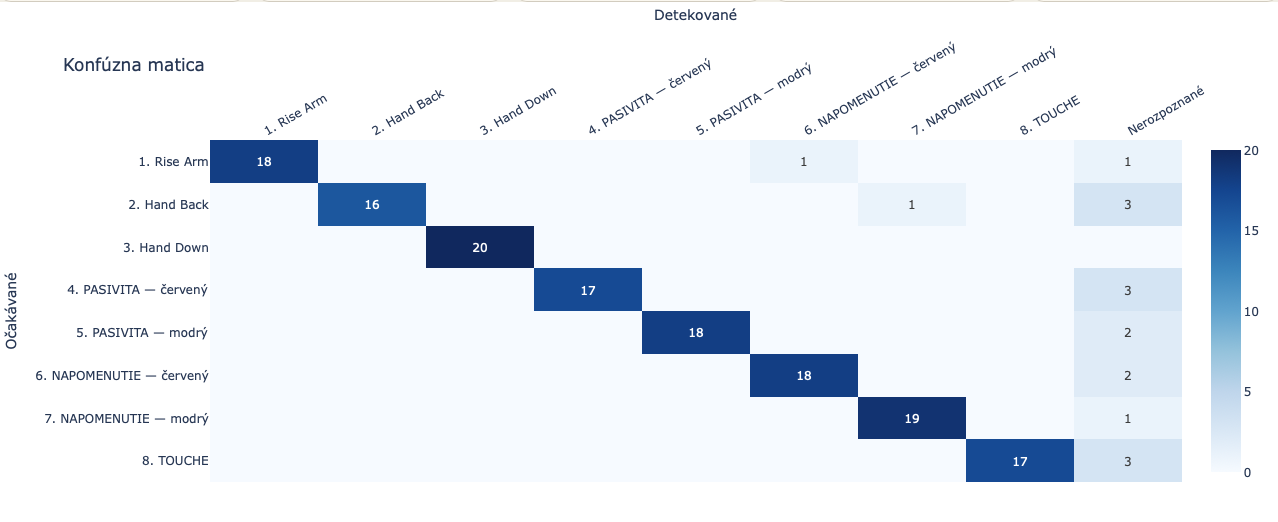
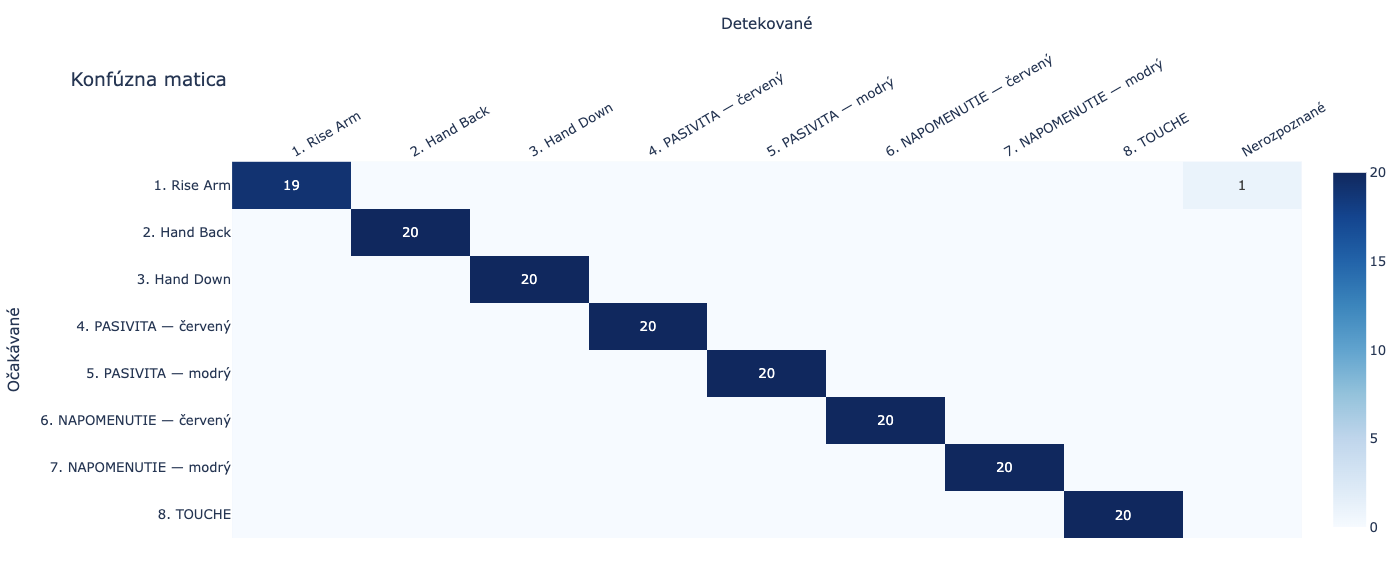
feat: add attachment E, update gesture testing results, and include false positive detection phase analysis

diff --git a/includes/chapter8.tex b/includes/chapter8.tex
@@ -29,7 +29,7 @@ bol dôvod chybnej detekcie. Testy vykonával jeden
 používateľ (autor práce) v~stoji, v~kontrolovanom
 prostredí.
 
-\subsection{Testovanie jednotlivých gest}
+\subsection{Fáza 1 -- Testovanie jednotlivých gest}
 \label{subsec:test-jednotlive}
 
 V~prvej fáze testovania sme každé gesto vykonali
@@ -54,50 +54,54 @@ sú zhrnuté v~tabuľke~\ref{tab:test-jednotlive}.
   \renewcommand{\arraystretch}{1.3}
   \begin{tabularx}{\textwidth}{
       >{\raggedright\arraybackslash}X
-      >{\centering\arraybackslash}p{0.15\textwidth}
-      >{\centering\arraybackslash}p{0.18\textwidth}
+      >{\centering\arraybackslash}p{0.12\textwidth}
+      >{\centering\arraybackslash}p{0.14\textwidth}
+      >{\centering\arraybackslash}p{0.13\textwidth}
       >{\centering\arraybackslash}p{0.18\textwidth}
     }
     \toprule
-    \textbf{Gesto}         & \textbf{Pokusy} & \textbf{Rozpoznané} & \textbf{Úspešnosť} \\
+    \textbf{Gesto}        & \textbf{Pokusy} & \textbf{Rozpoznané} & \textbf{Úspešnosť} & \textbf{Medián času det.} \\
     \midrule
-    Rise Arm               & 20              & 18                  & 90,0\%             \\
+    Rise Arm              & 20              & 19                  & 95,0\%             & 0,53\,s                   \\
     \midrule
-    Hand Back              & 20              & 16                  & 80,0\%             \\
+    Hand Back             & 20              & 20                  & 100\%              & 0,40\,s                   \\
     \midrule
-    Hand Down              & 20              & 20                  & 100\%              \\
-    % \midrule
-    % Flick                  & 18              & XX                  & XX,X\,\%           \\
+    Hand Down             & 20              & 20                  & 100\%              & 0,61\,s                   \\
     \midrule
-    PASIVITA -- červený    & 20              & 17                  & 85,0\%             \\
+    PASIVITA — červený    & 20              & 20                  & 100\%              & 0,88\,s                   \\
     \midrule
-    PASIVITA -- modrý      & 20              & 18                  & 90,0\%             \\
+    PASIVITA — modrý      & 20              & 20                  & 100\%              & 0,71\,s                   \\
     \midrule
-    NAPOMENUTIE -- červený & 20              & 18                  & 90,0\%             \\
+    NAPOMENUTIE — červený & 20              & 20                  & 100\%              & 0,55\,s                   \\
     \midrule
-    NAPOMENUTIE -- modrý   & 20              & 19                  & 95,0\%             \\
+    NAPOMENUTIE — modrý   & 20              & 20                  & 100\%              & 0,57\,s                   \\
     \midrule
-    TOUCHE                 & 20              & 17                  & 85,0\%             \\
+    TOUCHE                & 20              & 20                  & 100\%              & 0,82\,s                   \\
     \midrule
-    \textbf{Celkovo}       & \textbf{160}    & \textbf{149}        & \textbf{89,4\%}    \\
+    \textbf{Celkovo}      & \textbf{160}    & \textbf{159}        & \textbf{99,4\%}    & \textbf{0,60\,s}          \\
     \bottomrule
   \end{tabularx}
 \end{table}
 
 Z~výsledkov vyplýva, že priemerná úspešnosť rozpoznania
-naprieč všetkými gestami dosahuje 89,4\%, čo považujeme
-za uspokojivý výsledok pri testovaní v~kontrolovaných
-podmienkach. Najvyššiu spoľahlivosť (100\%) dosiahlo
-gesto \uv{Hand Down}, ktoré má jasne definovanú neutrálnu
-polohu ruky pri tele a~jeho hraničné hodnoty sa neprekrývajú
-so žiadnym iným gestom. Vysokú úspešnosť dosahujú aj gestá
-\uv{NAPOMENUTIE -- modrý} (95,0\%) a~\uv{Rise Arm} a~\uv{NAPOMENUTIE
-  -- červený} (oba 90,0\%).
+naprieč všetkými gestami dosahuje 99,4\,\%, čo považujeme
+za výborný výsledok pri testovaní v~kontrolovaných
+podmienkach. Sedem z~ôsmich gest dosiahlo 100\,\% úspešnosť --
+\uv{Hand Back}, \uv{Hand Down}, \uv{PASIVITA -- červený},
+\uv{PASIVITA -- modrý}, \uv{NAPOMENUTIE -- červený},
+\uv{NAPOMENUTIE -- modrý} a~\uv{TOUCHE}.
 
-Najnižšiu úspešnosť sme zaznamenali pri geste
-\uv{Hand Back} (80,0\%), čo zodpovedá očakávaniu vyplývajúcemu
-z~návrhu — toto gesto má polohu ruky za chrbtom, ktorá je
-mechanicky podobná polohe pri geste \uv{NAPOMENUTIE -- modrý}.
+Mierne nižšiu úspešnosť (95,0\,\%) sme zaznamenali pri geste
+\uv{Rise Arm}, kde sa jeden z~20 pokusov nepodarilo úspešne
+rozpoznať. Vzhľadom na celkovo vysokú úspešnosť ide
+o~ojedinelú výnimku, ktorá nemá výrazný dopad na celkovú
+spoľahlivosť systému.
+
+Mediány času detekcie sa pohybujú v~rozsahu od 0,40\,s
+(\uv{Hand Back}) po 0,88\,s (\uv{PASIVITA -- červený}),
+s~celkovým mediánom 0,60\,s. Tieto hodnoty potvrdzujú,
+že aplikácia dokáže gestá rozpoznať dostatočne rýchlo
+pre použitie v~reálnom čase.
 
 \subsubsection{Analýza chybných detekcií}
 
@@ -115,3 +119,23 @@ predstavujú chybné detekcie.
   \caption{Konfúzna matica testovania gest v ideálnych podmienkach}
   \label{fig:confusion-matrix}
 \end{figure}
+
+\subsection{Fáza 3 -- Test falošne pozitívnych detekcií}
+\label{subsec:test-false-positive}
+
+V~tretej fáze sme testovali odolnosť aplikácie voči
+nechceným detekciám pri bežnej aktivite ruky. Tento
+test bol dôležitý pre overenie použiteľnosti aplikácie
+počas reálneho zápasu, kedy rozhodca vykonáva množstvo
+iných pohybov ruky -- gestikuluje pri komunikácii
+s~rozhodcovským tímom, manipuluje s~predmetmi a~pohybuje
+sa po žinenke. Aplikácia tieto pohyby nesmie nesprávne
+interpretovať ako zápasnícke gestá, inak by dochádzalo
+k~neúmyselnému prideľovaniu bodov.
+
+Vykonali sme dva testovacie scenáre s~aplikáciou
+v~režime \texttt{WAITING}, pri ktorých sme bez úmyslu
+vyvolať akékoľvek gesto vykonávali bežné aktivity --
+chôdzu po miestnosti, gestikuláciu pri rozprávaní,
+manipuláciu s~predmetmi (telefón, pohár) a~bežné
+pohyby pri sedení.

diff --git a/thesis.tex b/thesis.tex
@@ -129,7 +129,9 @@
 \FEIappendix{Slovníček pojmov\label{att:dictionary}}{includes/attachmentC}
 
 %% Attachement D
-%\FEIappendix{Súborová štruktúra projektu\label{att:files}}{includes/attachmentD}
+\FEIappendix{Súborová štruktúra projektu\label{att:files}}{includes/attachmentD}
 
+%% Attachement E
+\FEIappendix{Prílohy\label{att:prilohy}}{includes/attachmentE}
 
 \end{document}

diff --git a/includes/attachmentE.tex b/includes/attachmentE.tex
@@ -1,0 +1,1 @@
+\file{pouzivatelska\_prirucka.pdf}{Návod na použitie}